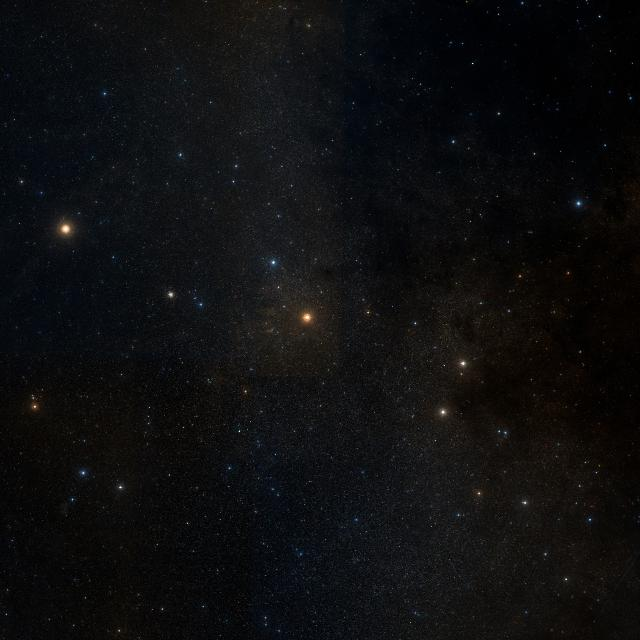
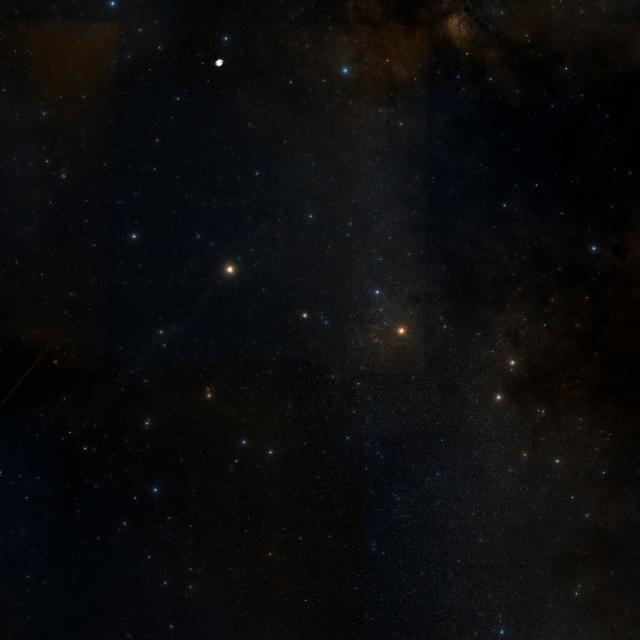
Fix Sge: add eta Sge anchor star and expand FOV
Red anchor star eta Sge (HIP, mag 5.09, K-type) was missing from the
C array and off the left edge of the photo. Added it as star[4] with
a line connecting to delta Sge. Expanded fov from 7.1 to 10.0 and
re-centered (ra=298.2, dec=18.7) so all anchor stars are in frame.

diff --git a/fix.html b/fix.html
@@ -374,9 +374,9 @@ const C = [
  stars:[[63.60606,-62.473858,3.3],[56.048895,-64.806903,3.8,'o'],[59.686425,-61.400185,4.6],[64.12107,-59.302156,4.4]],
  lines:[[0,1],[1,2],[2,3],[3,0]]},
 
-{name:"Sagitta",abbr:"Sge",hem:"N",diff:3,ra:296.7,dec:18.5,fov:7.1,
- stars:[[299.689275,19.492148,3.5,'r'],[296.846925,18.534286,3.7,'o'],[295.024125,18.01389,4.4],[295.26225,17.476041,4.4]],
- lines:[[0,1],[1,2],[2,1],[1,3]]},
+{name:"Sagitta",abbr:"Sge",hem:"N",diff:3,ra:298.2,dec:18.7,fov:10.0,
+ stars:[[299.689275,19.492148,3.5,'r'],[296.846925,18.534286,3.7,'o'],[295.024125,18.01389,4.4],[295.26225,17.476041,4.4],[301.28955,19.991071,5.093,'o']],
+ lines:[[0,1],[1,2],[2,1],[1,3],[4,0]]},
 
 {name:"Sculptor",abbr:"Scl",hem:"S",diff:3,ra:358.7,dec:-33.0,fov:33.5,
  stars:[[14.65149,-29.357449,4.3],[357.231405,-28.130268,4.6],[349.705995,-32.532027,4.4],[353.24268,-37.818268,4.4]],

diff --git a/index.html b/index.html
@@ -467,9 +467,9 @@ const C = [
  stars:[[63.60606,-62.473858,3.3],[56.048895,-64.806903,3.8,'o'],[59.686425,-61.400185,4.6],[64.12107,-59.302156,4.4]],
  lines:[[0,1],[1,2],[2,3],[3,0]]},
 
-{name:"Sagitta",abbr:"Sge",hem:"N",diff:3,ra:296.7,dec:18.5,fov:7.1,
- stars:[[299.689275,19.492148,3.5,'r'],[296.846925,18.534286,3.7,'o'],[295.024125,18.01389,4.4],[295.26225,17.476041,4.4]],
- lines:[[0,1],[1,2],[2,1],[1,3]]},
+{name:"Sagitta",abbr:"Sge",hem:"N",diff:3,ra:298.2,dec:18.7,fov:10.0,
+ stars:[[299.689275,19.492148,3.5,'r'],[296.846925,18.534286,3.7,'o'],[295.024125,18.01389,4.4],[295.26225,17.476041,4.4],[301.28955,19.991071,5.093,'o']],
+ lines:[[0,1],[1,2],[2,1],[1,3],[4,0]]},
 
 {name:"Sculptor",abbr:"Scl",hem:"S",diff:3,ra:358.7,dec:-33.0,fov:33.5,
  stars:[[14.65149,-29.357449,4.3],[357.231405,-28.130268,4.6],[349.705995,-32.532027,4.4],[353.24268,-37.818268,4.4]],
